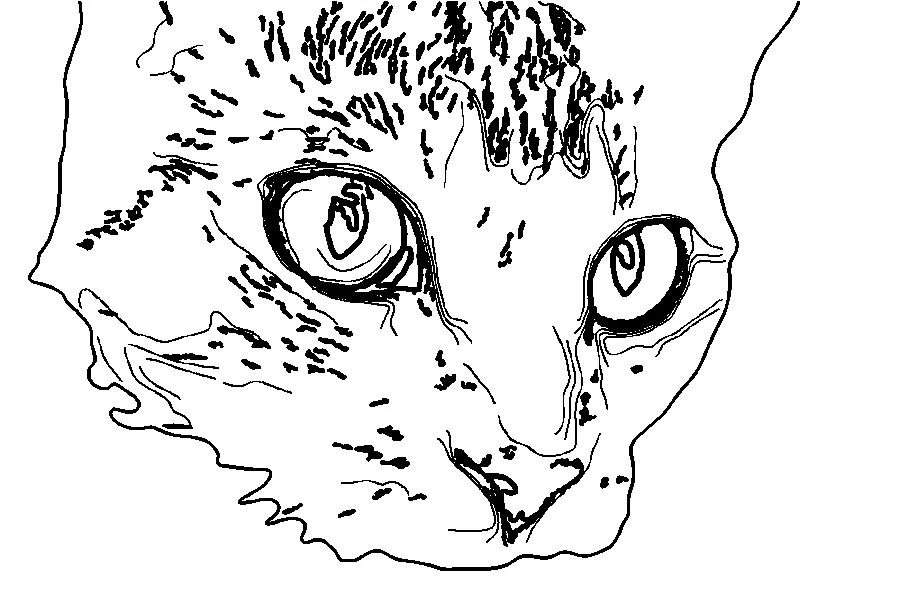
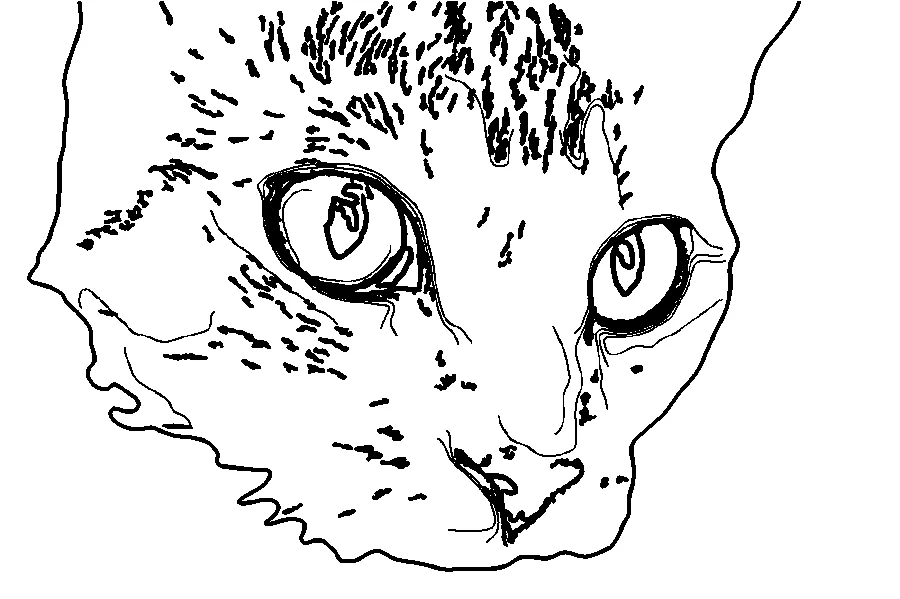
Láminas: trazo de silueta más marcado y menos líneas de sombra sueltas; muestras regeneradas
Claude-Session: https://claude.ai/code/session_01CB9p5hFfRFjVTK8PoGSpd8

diff --git a/src/lib/coloring/lineart.ts b/src/lib/coloring/lineart.ts
@@ -296,7 +296,7 @@ export async function toLineArt(input: Buffer, style: ColoringStyle, outSide: nu
 
   if (!fg) {
     const png = await renderMask(xd, w, h, outSide, P.minPx, P.thicken);
-    return tone ? darkest(png, await renderMask(tone, w, h, outSide, P.minPx, P.thicken * 0.55)) : png;
+    return tone ? darkest(png, await renderMask(tone, w, h, outSide, P.minPx * 2, P.thicken * 0.55)) : png;
   }
 
   const near = await morph(fg, w, h, Math.max(3, w / 150)); // sujeto + un margen
@@ -307,8 +307,8 @@ export async function toLineArt(input: Buffer, style: ColoringStyle, outSide: nu
   for (let y = 0; y < h; y++)
     for (let x = 0; x < w; x++) {
       const p = y * w + x;
-      // silueta: borde del sujeto
-      if (fg[p] && ((x > 0 && !fg[p - 1]) || (x < w - 1 && !fg[p + 1]) || (y > 0 && !fg[p - w]) || (y < h - 1 && !fg[p + w]))) subj[p] = 0;
+      // silueta: borde del sujeto, a ambos lados (2 px) para que sea el trazo principal
+      if ((x > 0 && fg[p - 1] !== fg[p]) || (x < w - 1 && fg[p + 1] !== fg[p]) || (y > 0 && fg[p - w] !== fg[p]) || (y < h - 1 && fg[p + w] !== fg[p])) subj[p] = 0;
       if (xd[p] === 0) {
         if (inner[p]) subj[p] = 0;
         else if (!near[p] && P.bg !== "none") back[p] = 0;
@@ -317,7 +317,7 @@ export async function toLineArt(input: Buffer, style: ColoringStyle, outSide: nu
     }
   let png = await renderMask(subj, w, h, outSide, Math.round(P.minPx * 0.6), P.thicken);
   // Zonas de tono con trazo más fino: detalle secundario que no compite con los contornos.
-  if (tone) png = await darkest(png, await renderMask(toneL, w, h, outSide, P.minPx, P.thicken * 0.55));
+  if (tone) png = await darkest(png, await renderMask(toneL, w, h, outSide, P.minPx * 2, P.thicken * 0.55));
   if (P.bg === "none") return png;
   // Fondo más fino y solo con trazos largos (Sencillo) para que el sujeto destaque.
   return darkest(png, await renderMask(back, w, h, outSide, Math.round(560 * (P.work / 900)), P.thicken * 0.6));
